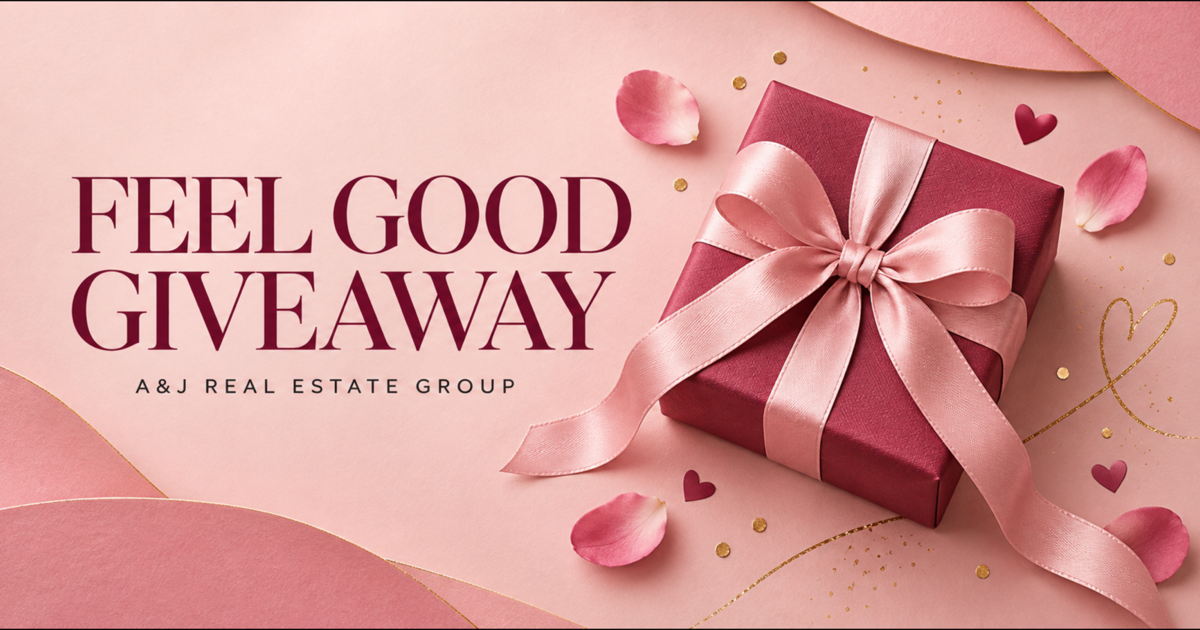
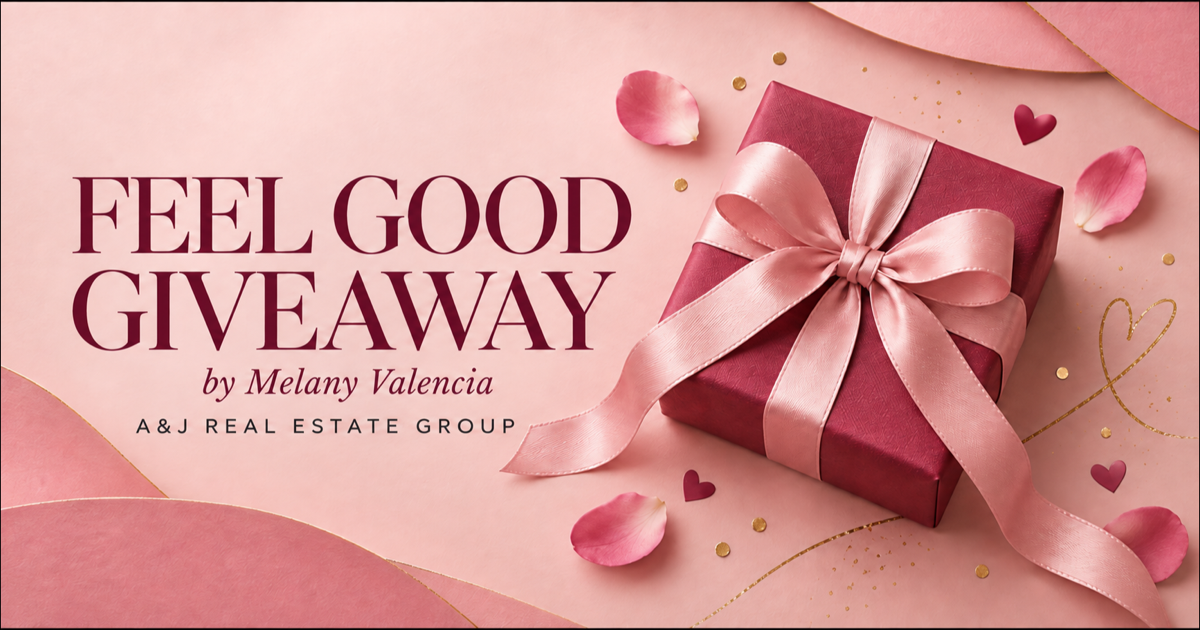
feat: add Melany Valencia giveaway byline

diff --git a/src/app/[locale]/events/feel-good-social/page.tsx b/src/app/[locale]/events/feel-good-social/page.tsx
@@ -60,7 +60,7 @@ export async function generateMetadata(): Promise<Metadata> {
           url: SOCIAL_IMAGE,
           width: 1200,
           height: 630,
-          alt: "Feel Good Giveaway by A&J Real Estate Group",
+          alt: "Feel Good Giveaway by Melany Valencia for A&J Real Estate Group",
         },
       ],
     },
@@ -95,6 +95,7 @@ export default async function FeelGoodSocialPage({
               <h1 id="raffle-title" className={styles.title}>
                 {t("hero.title")}
               </h1>
+              <p className={styles.byline}>by Melany Valencia</p>
               <p className={styles.subtitle}>{t("hero.subtitle")}</p>
             </div>
           </div>

diff --git a/src/app/[locale]/events/feel-good-social/FeelGoodSocial.module.css b/src/app/[locale]/events/feel-good-social/FeelGoodSocial.module.css
@@ -130,6 +130,17 @@
   letter-spacing: -0.035em;
 }
 
+.byline {
+  width: fit-content;
+  margin-top: 0.45rem;
+  color: var(--raffle-deep);
+  font-family: var(--font-display), Georgia, serif;
+  font-size: clamp(1.05rem, 3.5vw, 1.35rem);
+  font-style: italic;
+  font-weight: 600;
+  line-height: 1;
+}
+
 .subtitle {
   max-width: 38rem;
   margin-top: 0.65rem;

diff --git a/.impeccable/surfaces/src-app-locale-events-feel-good-social-page-tsx.md b/.impeccable/surfaces/src-app-locale-events-feel-good-social-page-tsx.md
@@ -34,3 +34,4 @@ Memorable moment: a wrapped gift arrives once with a soft, weighted settling mot
 - 2026-09-15: The campaign top bar and navigation use deep berry fields only while this route is present; the shared footer is hidden for the focused onsite flow. CSS `:has()` applies the treatment on the server-rendered page, with the existing document class as a hydration fallback.
 - Social preview: `public/images/events/feel-good-giveaway-og.png`, 1200×630 PNG. Generated with OpenAI ImageGen from a campaign-specific prompt requesting a blush paper backdrop, raspberry gift, pink ribbon, restrained gold accents, and the exact “FEEL GOOD GIVEAWAY” / “A&J REAL ESTATE GROUP” text; cropped and resized locally from the generated landscape master.
 - Finish verdict: pass. Production build and targeted lint pass; live browser verification confirms the pink chrome and hidden footer on the campaign, navy chrome and visible footer on `/en`, and valid OG/Twitter tags. Repository-wide lint remains blocked by unrelated pre-existing errors outside this surface.
+- 2026-09-15 byline refinement: “by Melany Valencia” is set as a restrained italic display signature directly beneath the giveaway title. The OG artwork was edited with OpenAI ImageGen using the previous 1200×630 campaign card as the locked edit target; only the left typography area changed to add the same exact byline while preserving the gift, palette, existing copy, and composition.
